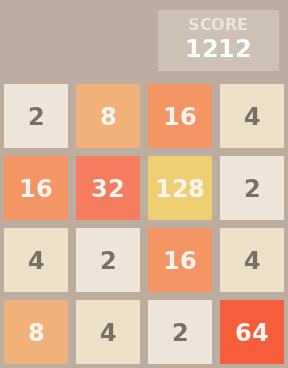
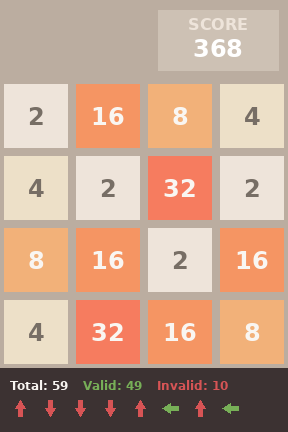
Track and render move statistics and history.
- Added move tracking (total, valid, invalid) and move history (last 8 moves).
- Updated rendering to include a footer banner with move statistics and history arrows.
- Added 'test_move_tracking' to verify move counter accuracy and history management.
- Refreshed project screenshots and test baselines.

diff --git a/gym_2048/envs/gym_2048_env.py b/gym_2048/envs/gym_2048_env.py
@@ -3,7 +3,7 @@
 # pylint: disable=too-many-instance-attributes, duplicate-code
 import random
 
-from typing import Any, Tuple, Dict, Optional
+from typing import Any, Tuple, Dict, Optional, List
 
 import gymnasium as gym
 from absl import logging
@@ -25,6 +25,7 @@ GRID_SIZE = (4, 4)
 PADDING_PX = 8
 SQUARE_PX = 64
 HEADER_PX = 80
+FOOTER_PX = 64
 
 RECT_COLORS = {
     0: (205, 193, 180),
@@ -45,10 +46,14 @@ TEXT_COLOR_DARK = (119, 110, 101)
 TEXT_COLOR_LIGHT = (249, 246, 242)
 
 BACKGROUND_COLOR = (187, 173, 160)
+FOOTER_COLOR = (60, 50, 50)
+
+VALID_COLOR = (119, 175, 87)
+INVALID_COLOR = (215, 84, 85)
 
 CANVAS_SIZE = (
     GRID_SIZE[0] * (SQUARE_PX + PADDING_PX),
-    GRID_SIZE[1] * (SQUARE_PX + PADDING_PX) + HEADER_PX,
+    GRID_SIZE[1] * (SQUARE_PX + PADDING_PX) + HEADER_PX + FOOTER_PX,
 )
 
 
@@ -189,6 +194,7 @@ class Gym2048Env(gym.Env):
         self._font = ImageFont.truetype(font_file, 24)
         self._score_label_font = ImageFont.truetype(font_file, 16)
         self._score_font = ImageFont.truetype(font_file, 24)
+        self._stats_font = ImageFont.truetype(font_file, 12)
 
         self._render_cache = {}
         for val in RECT_COLORS:
@@ -241,12 +247,21 @@ class Gym2048Env(gym.Env):
         """Perform one step in the environment."""
         reward = 0
         valid_moves = _get_valid_moves_jit(self._grid)
-        if valid_moves[action] == 1:
+        is_valid = valid_moves[action] == 1
+        self._total_moves += 1
+        if is_valid:
+            self._valid_moves += 1
             reward = _merge_jit(self._grid, action)
             self._score += reward
             self._random_spawn()
         else:
+            self._invalid_moves += 1
             reward = -32
+
+        self._move_history.append((action, is_valid))
+        if len(self._move_history) > 8:
+            self._move_history.pop(0)
+
         observation, terminated = self._create_observation()
         truncated = False
         return observation, float(reward), terminated, truncated, {}
@@ -258,6 +273,10 @@ class Gym2048Env(gym.Env):
         super().reset(seed=seed)
         self._grid = np.zeros(GRID_SIZE, dtype=np.int32)
         self._score = 0
+        self._total_moves = 0
+        self._valid_moves = 0
+        self._invalid_moves = 0
+        self._move_history: List[Tuple[int, bool]] = []
         spawn = True
         if options is not None and "nospawn" in options and options["nospawn"]:
             spawn = False
@@ -291,6 +310,65 @@ class Gym2048Env(gym.Env):
                 anchor="mm",
             )
         self._render_cache[val] = np.array(img).astype(np.float32) / 256.0
+
+    def _draw_arrow(
+        self, draw: ImageDraw.ImageDraw, x: int, y: int, action: int, color: Tuple[int, int, int]
+    ) -> None:
+        """Draw an arrow representing a move with a shaft and head."""
+        # Arrow dimensions
+        # Total size reduced: fits within roughly 16x16 box (radius 8)
+        radius = 8
+        shaft_w = 4
+        # Points relative to center (x, y)
+        
+        if action == UP:
+            # Pointing Up
+            # Head tip at top
+            points = [
+                (x, y - radius),                   # Tip
+                (x + 5, y),                        # Head Right Base
+                (x + 2, y),                        # Shaft Top Right
+                (x + 2, y + radius),               # Shaft Bottom Right
+                (x - 2, y + radius),               # Shaft Bottom Left
+                (x - 2, y),                        # Shaft Top Left
+                (x - 5, y)                         # Head Left Base
+            ]
+        elif action == DOWN:
+            # Pointing Down
+            points = [
+                (x, y + radius),                   # Tip
+                (x + 5, y),                        # Head Right Base
+                (x + 2, y),                        # Shaft Top Right
+                (x + 2, y - radius),               # Shaft Bottom Right
+                (x - 2, y - radius),               # Shaft Bottom Left
+                (x - 2, y),                        # Shaft Top Left
+                (x - 5, y)                         # Head Left Base
+            ]
+        elif action == LEFT:
+            # Pointing Left
+            points = [
+                (x - radius, y),                   # Tip
+                (x, y - 5),                        # Head Top Base
+                (x, y - 2),                        # Shaft Top Left
+                (x + radius, y - 2),               # Shaft Top Right
+                (x + radius, y + 2),               # Shaft Bottom Right
+                (x, y + 2),                        # Shaft Bottom Left
+                (x, y + 5)                         # Head Bottom Base
+            ]
+        elif action == RIGHT:
+            # Pointing Right
+            points = [
+                (x + radius, y),                   # Tip
+                (x, y - 5),                        # Head Top Base
+                (x, y - 2),                        # Shaft Top Left
+                (x - radius, y - 2),               # Shaft Top Right
+                (x - radius, y + 2),               # Shaft Bottom Right
+                (x, y + 2),                        # Shaft Bottom Left
+                (x, y + 5)                         # Head Bottom Base
+            ]
+        else:
+            return
+        draw.polygon(points, fill=color)
 
     def _render(self) -> None:
         """Update the current observation image."""
@@ -336,6 +414,45 @@ class Gym2048Env(gym.Env):
 
         for val, (s_y, s_x) in zip(self._grid.flat, self._grid_slices):
             self._current_observation[s_y, s_x] = self._render_cache[val]
+
+        # Draw Footer
+        footer_y_start = CANVAS_SIZE[1] - FOOTER_PX
+        footer = Image.new("RGB", (CANVAS_SIZE[0], FOOTER_PX), color=FOOTER_COLOR)
+        draw_footer = ImageDraw.Draw(footer)
+
+        # Stats text
+        stats_text = (
+            f"Total: {self._total_moves}  "
+            f"Valid: {self._valid_moves}  "
+            f"Invalid: {self._invalid_moves}"
+        )
+        
+        # Draw "Total" in light color, others in their colors
+        # Need to draw them one by one for different colors
+        x_off = 10
+        y_off = 10
+        
+        txt = f"Total: {self._total_moves}"
+        draw_footer.text((x_off, y_off), txt, fill=TEXT_COLOR_LIGHT, font=self._stats_font)
+        x_off += draw_footer.textbbox((x_off, y_off), txt, font=self._stats_font)[2] - x_off + 15
+        
+        txt = f"Valid: {self._valid_moves}"
+        draw_footer.text((x_off, y_off), txt, fill=VALID_COLOR, font=self._stats_font)
+        x_off += draw_footer.textbbox((x_off, y_off), txt, font=self._stats_font)[2] - x_off + 15
+        
+        txt = f"Invalid: {self._invalid_moves}"
+        draw_footer.text((x_off, y_off), txt, fill=INVALID_COLOR, font=self._stats_font)
+
+        # Move history arrows
+        arrow_y = y_off + 30
+        arrow_x_start = 20
+        arrow_spacing = 30
+        for i, (action, is_valid) in enumerate(self._move_history):
+            color = VALID_COLOR if is_valid else INVALID_COLOR
+            self._draw_arrow(draw_footer, arrow_x_start + i * arrow_spacing, arrow_y, action, color)
+
+        footer_arr = np.array(footer).astype(np.float32) / 256.0
+        self._current_observation[footer_y_start:, :] = footer_arr
 
     def _create_observation(
         self, valid_moves: Optional[npt.NDArray[np.int32]] = None

diff --git a/gym_2048/envs/gym_2048_env_test.py b/gym_2048/envs/gym_2048_env_test.py
@@ -437,6 +437,42 @@ class TestGym2048Env(unittest.TestCase):
         self.assertTrue(terminated)
         self.assertEqual(env._grid[0, 0], 2048)
 
+    def test_move_tracking(self):
+        """Test that the environment correctly tracks valid and invalid moves."""
+        env = Gym2048Env()
+        env.reset(options={"nospawn": True})
+        # Ensure we have a known state
+        env._grid = np.asarray(
+            [[2, 0, 0, 0], [0, 0, 0, 0], [0, 0, 0, 0], [0, 0, 0, 0]]
+        ).transpose()
+        
+        # Valid move (RIGHT)
+        env.step(gym_2048_env.RIGHT)
+        self.assertEqual(env._total_moves, 1)
+        self.assertEqual(env._valid_moves, 1)
+        self.assertEqual(env._invalid_moves, 0)
+        self.assertEqual(len(env._move_history), 1)
+        self.assertEqual(env._move_history[0], (gym_2048_env.RIGHT, True))
+
+        # Force grid state to make RIGHT invalid
+        env._grid = np.asarray(
+            [[0, 0, 0, 2], [0, 0, 0, 0], [0, 0, 0, 0], [0, 0, 0, 0]]
+        ).transpose()
+
+        # Invalid move (RIGHT again)
+        env.step(gym_2048_env.RIGHT)
+        self.assertEqual(env._total_moves, 2)
+        self.assertEqual(env._valid_moves, 1)
+        self.assertEqual(env._invalid_moves, 1)
+        self.assertEqual(len(env._move_history), 2)
+        self.assertEqual(env._move_history[1], (gym_2048_env.RIGHT, False))
+
+        # Check history limit (8)
+        for _ in range(10):
+            env.step(gym_2048_env.UP)
+        
+        self.assertEqual(len(env._move_history), 8)
+
 
 if __name__ == "__main__":
     unittest.main()
